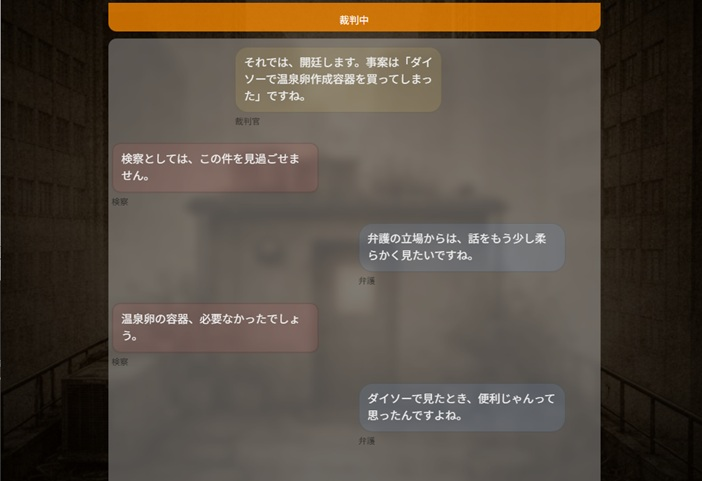
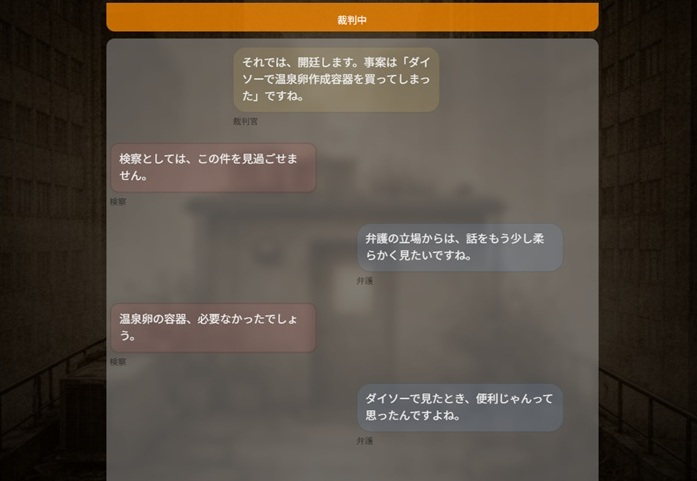
改修：タイトルバー、タイトル表示

diff --git a/app.py b/app.py
@@ -53,22 +53,21 @@ CHAT_CSS = """
     margin-bottom: 0 !important;
   }
 
-  /* ヘッダーを上に詰める */
+  /* Streamlitヘッダーバー（メニュー含む）を非表示 */
     header.stAppHeader {
-        padding-top: 0 !important;
-        margin-top: 0 !important;
-        top: 0 !important;
+        display: none !important;
+        height: 0 !important;
     }
 
-    /* メインコンテンツも上に詰める */
-    .stMain {
+    /* メインコンテンツを最上部から表示 */
+    .stMain, section.main > div {
         padding-top: 0 !important;
         margin-top: 0 !important;
     }
 
-    /* Main全体の上余白も削除 */
-    section.main > div {
-        padding-top: 0 !important;
+    /* header非表示後も親divが確保するheader分の余白を打ち消す */
+    [data-testid="stMain"] > div:first-child {
+        margin-top: -58px !important;
     }
 
   .titlebar{
@@ -97,6 +96,7 @@ html, body{
 [data-testid="stMain"]{
   height: 100% !important;
   overflow: hidden !important;
+  padding-top: 0 !important;
 }
 
 /* flex子がスクロールできるようにする定番 */
@@ -1590,6 +1590,8 @@ def build_escort_script() -> list[dict]:
 # ============================================================
 # 5. 画面：intro / court / escort / end
 # ============================================================
+
+st.set_page_config(page_title="ゆるゆる裁判所", page_icon="⚖", layout="wide")
 
 init_state()
 float_init()
